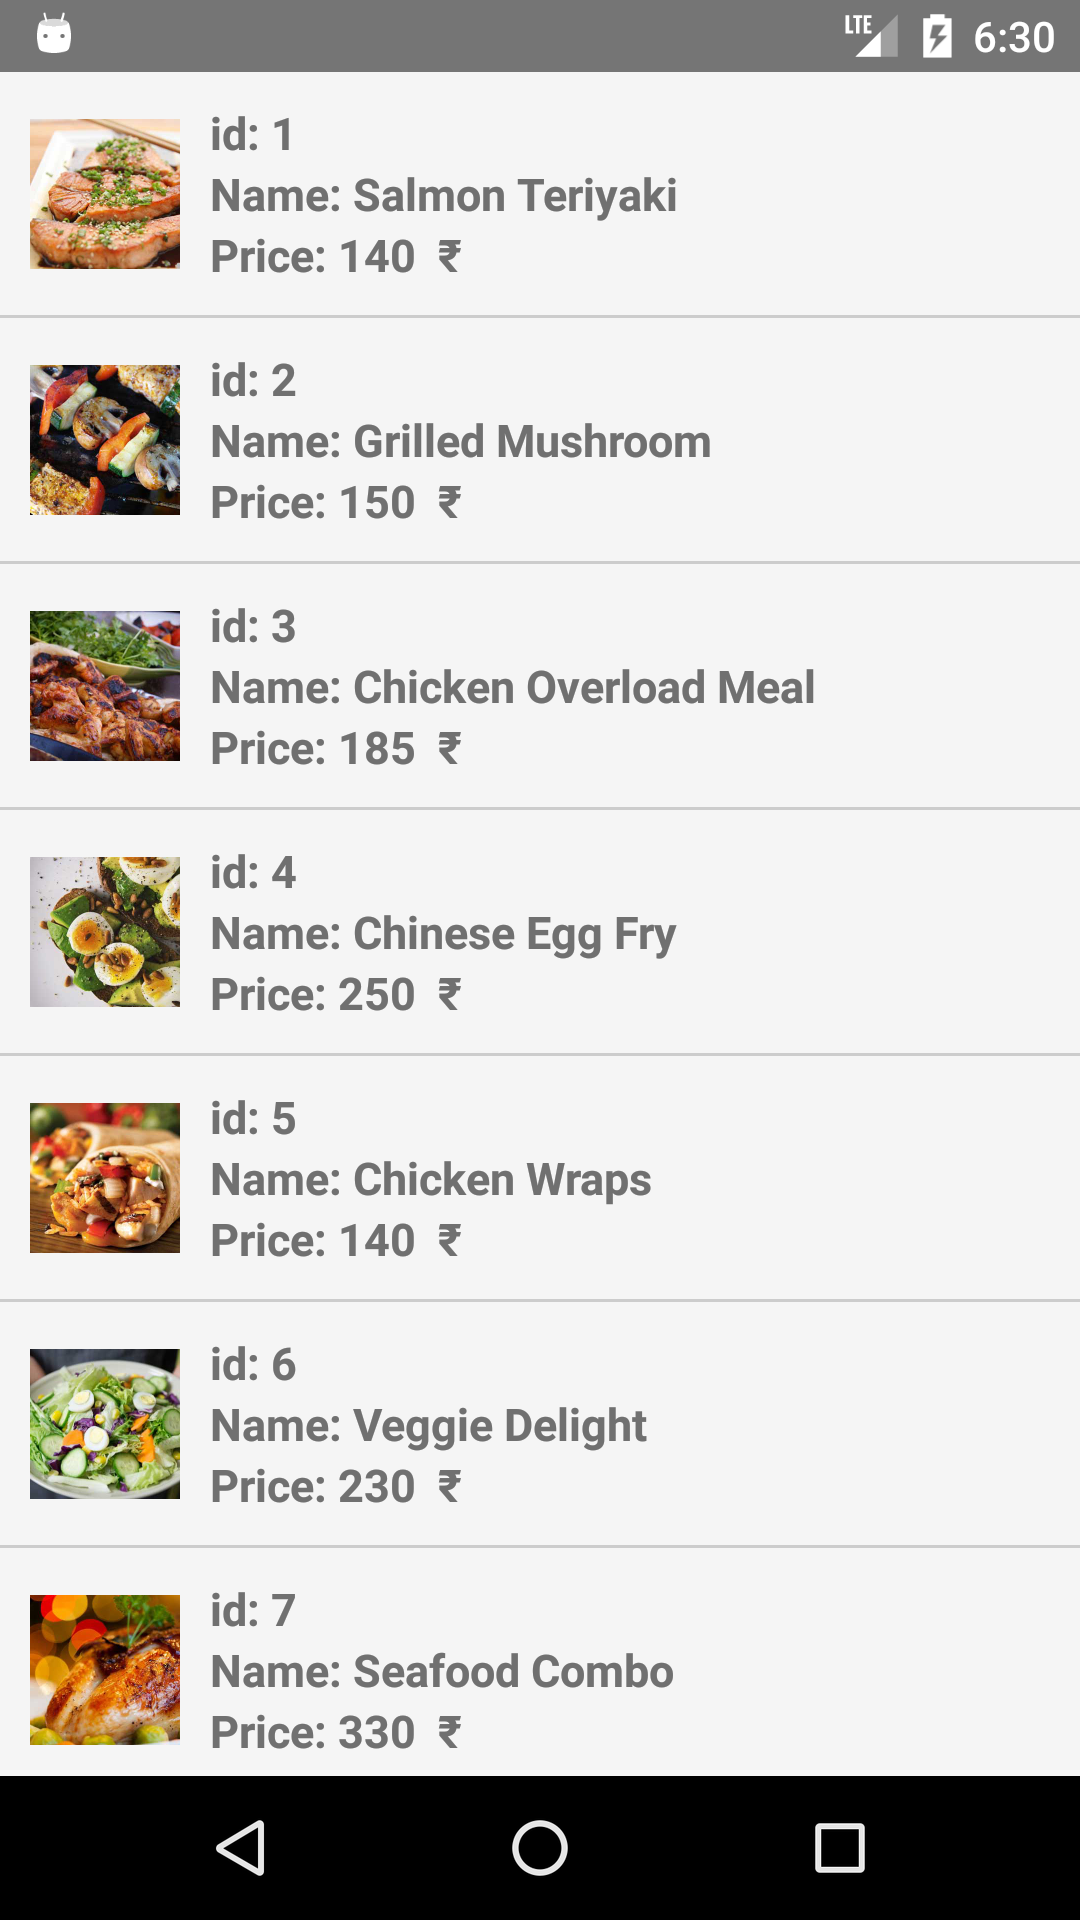
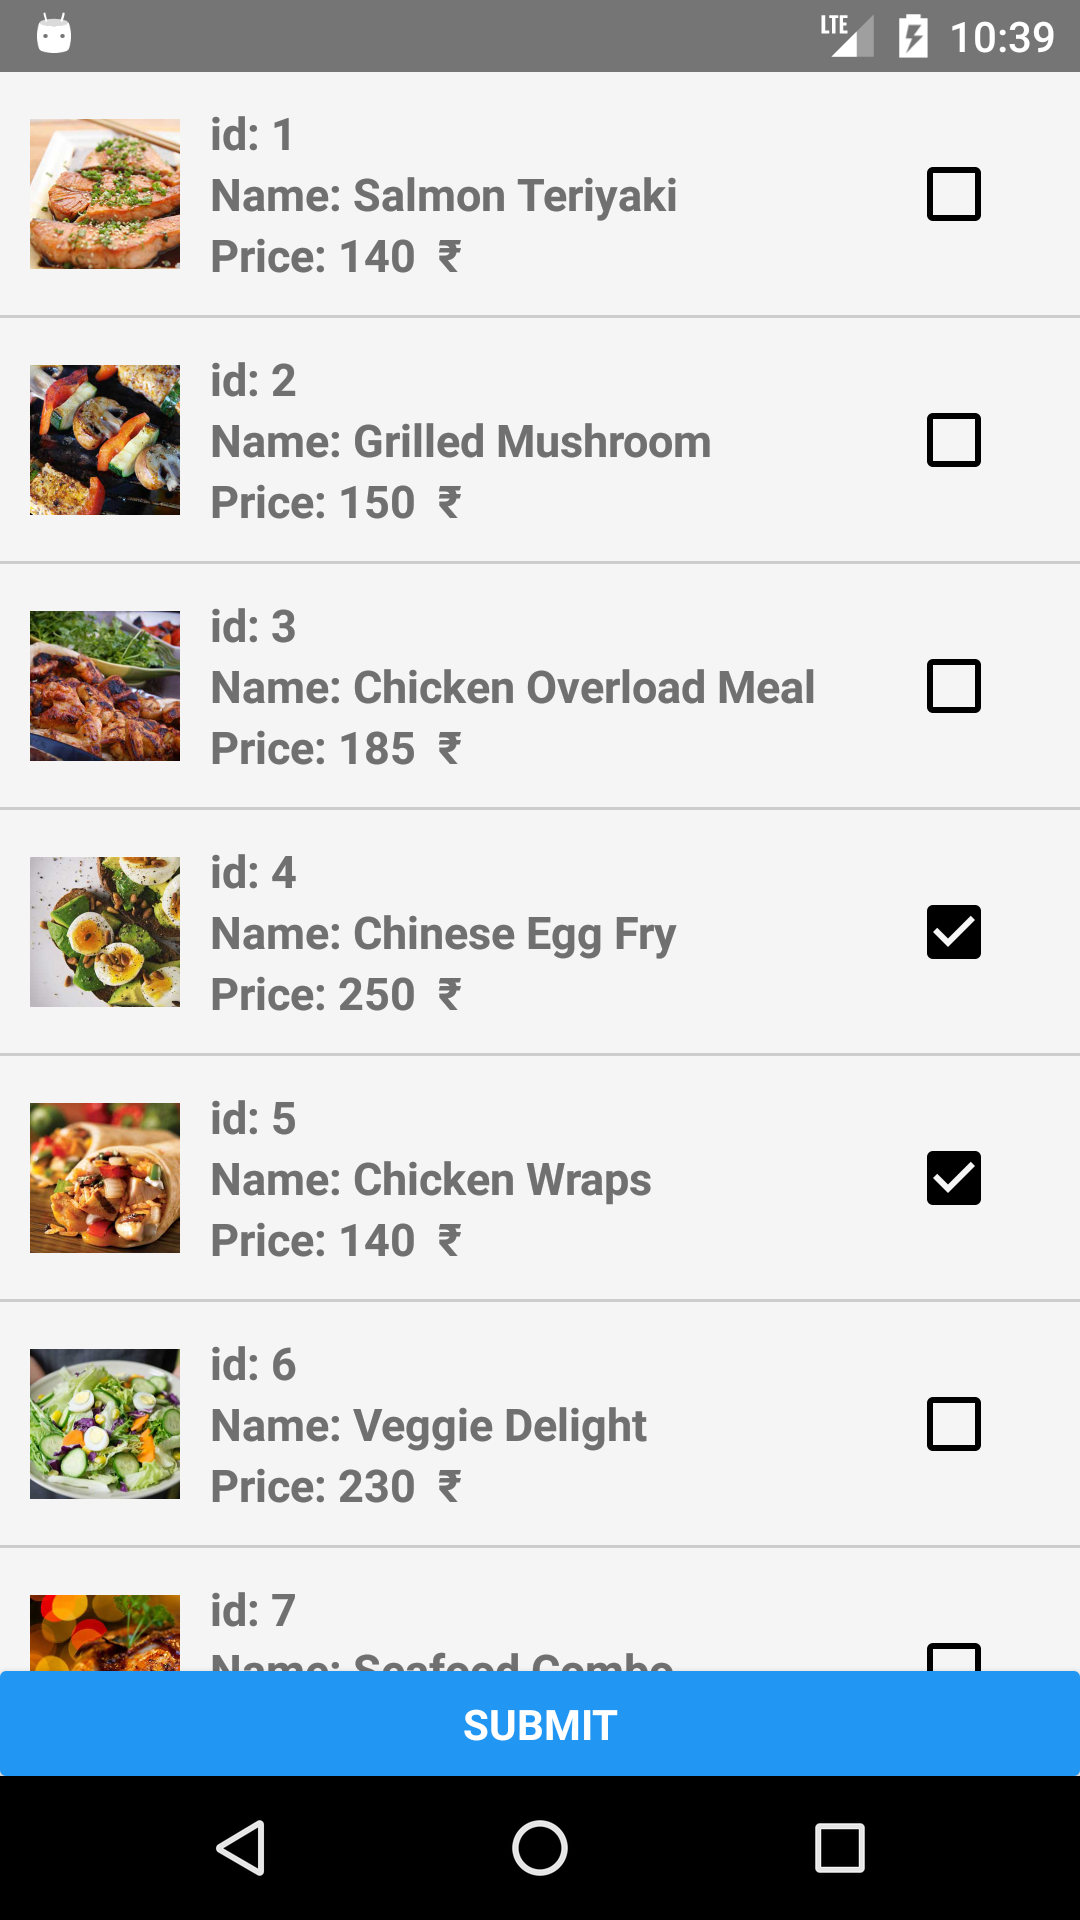
UI changes

diff --git a/app/components/home/Home.js b/app/components/home/Home.js
@@ -5,9 +5,9 @@ import {
   Text,
   ActivityIndicator,
   Image,
-  Button,
-  TouchableOpacity
+  Button
 } from "react-native";
+import CheckBox from "react-native-check-box";
 import PropTypes from "prop-types";
 import { bindActionCreators } from "redux";
 import { connect } from "react-redux";
@@ -25,44 +25,47 @@ class Home extends Component {
     getData();
   }
 
-  onRowSelect = (item, index) => {
-    console.log(item, index);
-    this.props.imageIndex(index); // set selected image position
+  checkboxClicked = (index, item) => {
+    console.log(index, item);
+    this.props.addSelectedImage(item);
   };
 
   goToNextScreen = () => {
-    this.props.selectedImages(this.props.data); // set array of selected images
+    console.log(this.props.selectedImagesArray);
     this.props.navigation.dispatch({ type: "DetailsScreen" }); // navigate to new screen
   };
 
   renderItem({ item, index }) {
     return (
-      <TouchableOpacity onPress={this.onRowSelect.bind(this, item, index)}>
-        <View style={styles.row}>
-          <Image
-            style={styles.thumbnail}
-            resizeMode={Image.resizeMode.contain}
-            source={{ uri: item.thumbnail }}
-          />
-          <View style={styles.column}>
-            <Text style={styles.title}>
-              {"id:"} {parseInt(index, 10) + 1}
-            </Text>
-            <Text style={styles.title}>
-              {"Name:"} {item.name}
-            </Text>
-            <Text style={styles.title}>
-              {"Price:"} {item.price} {" ₹"}
-            </Text>
-          </View>
+      <View style={styles.row}>
+        <Image
+          style={styles.thumbnail}
+          resizeMode={Image.resizeMode.contain}
+          source={{ uri: item.thumbnail }}
+        />
+        <View style={styles.column}>
+          <Text style={styles.title}>
+            {"id:"} {parseInt(index, 10) + 1}
+          </Text>
+          <Text style={styles.title}>
+            {"Name:"} {item.name}
+          </Text>
+          <Text style={styles.title}>
+            {"Price:"} {item.price} {" ₹"}
+          </Text>
         </View>
-      </TouchableOpacity>
+        <CheckBox
+          style={styles.checkboxStyle}
+          name={item.id}
+          onClick={this.checkboxClicked.bind(this, index, item)}
+          isChecked={false}
+        />
+      </View>
     );
   }
 
   render() {
     const { loading, data } = this.props;
-    console.log(loading, data);
     if (loading) {
       return (
         <View style={styles.activityIndicatorContainer}>

diff --git a/app/components/details/DetailsComponent.js b/app/components/details/DetailsComponent.js
@@ -1,7 +1,7 @@
 import React, { Component } from "react";
 import {
   View,
-  Text,
+  Button,
   ActivityIndicator,
   StyleSheet,
   Image,
@@ -20,9 +20,13 @@ class DetailsComponent extends Component {
       selectedImagesArray: props.selectedImagesArray,
       selectedImageIndex: props.selectedImageIndex
     };
-    console.log("props", this.state);
+    console.log("props", this.props);
   }
 
+  onBackPress() {
+    this.props.navigation.goBack();
+    this.props.selectedImages(null);
+  }
   selectPreviousImage() {
     this.setState({ selectedImageIndex: this.state.selectedImageIndex - 1 });
   }
@@ -97,15 +101,19 @@ class DetailsComponent extends Component {
       );
     }
     return (
-      <View style={styles.container}>
-        {this.renderLeftArrow()}
+      <View style={styles.rootContainer}>
+        <View style={styles.container}>
+          {this.renderLeftArrow()}
 
-        <Image
-          source={{ uri: selectedImagesArray[selectedImageIndex].thumbnail }}
-          style={styles.image}
-        />
+          <Image
+            source={{ uri: selectedImagesArray[selectedImageIndex].thumbnail }}
+            style={styles.image}
+          />
 
-        {this.renderRightArrow()}
+          {this.renderRightArrow()}
+        </View>
+
+        <Button title={"Back"} onPress={this.onBackPress.bind(this)} />
       </View>
     );
   }
@@ -130,6 +138,10 @@ function mapDispatchToProps(dispatch) {
 }
 
 const styles = StyleSheet.create({
+  rootContainer: {
+    flex: 1,
+    flexDirection: "column"
+  },
   container: {
     flex: 1,
     justifyContent: "space-evenly",

diff --git a/app/reducers/dataReducer.js b/app/reducers/dataReducer.js
@@ -1,24 +1,34 @@
 import {
   DATA_AVAILABLE,
   SELECTED_IMAGE_INDEX,
-  SELECTED_IMAGES
+  SELECTED_IMAGES,
+  ADD_IMAGE,
+  HOME_RELOAD
 } from "../actions";
 
 const INITIAL_STATE = {
   data: [],
   loading: true,
   selectedImageIndex: 0,
-  selectedImagesArray: []
+  selectedImagesArray: [],
+  homeReload: true
 };
 
 const DataReducer = (state = INITIAL_STATE, action) => {
   switch (action.type) {
     case DATA_AVAILABLE:
       return { ...state, data: action.data, loading: false };
+    case ADD_IMAGE:
+      return {
+        ...state,
+        selectedImagesArray: [...state.selectedImagesArray, action.data]
+      };
     case SELECTED_IMAGE_INDEX:
       return { ...state, selectedImageIndex: action.data };
     case SELECTED_IMAGES:
       return { ...state, selectedImagesArray: action.data };
+    case HOME_RELOAD:
+      return { ...state, homeReload: action.data };
     default:
       return state;
   }

diff --git a/app/actions/index.js b/app/actions/index.js
@@ -3,6 +3,7 @@ import data from "../../app/assets/data.json";
 export const DATA_AVAILABLE = "DATA_AVAILABLE";
 export const SELECTED_IMAGE_INDEX = "SELECTED_IMAGE_INDEX";
 export const SELECTED_IMAGES = "SELECTED_IMAGES";
+export const ADD_IMAGE = "ADD_IMAGE";
 
 export function getData() {
   return dispatch => {
@@ -13,6 +14,12 @@ export function getData() {
 export function imageIndex(index) {
   return dispatch => {
     dispatch({ type: SELECTED_IMAGE_INDEX, data: index });
+  };
+}
+
+export function addSelectedImage(item) {
+  return dispatch => {
+    dispatch({ type: ADD_IMAGE, data: item });
   };
 }
 

diff --git a/app/screens/DetailsScreen.js b/app/screens/DetailsScreen.js
@@ -2,16 +2,16 @@ import React from "react";
 import { View, StyleSheet, Text } from "react-native";
 import DetailsComponent from "../components/details/DetailsComponent";
 
-const DetailsScreen = ({ navigation, props }) => (
+const DetailsScreen = ({ navigation }) => (
   <View style={styles.container}>
-    <DetailsComponent navigation={navigation}/>
+    <DetailsComponent navigation={navigation} />
   </View>
 );
 
 DetailsScreen.propTypes = {};
 
 DetailsScreen.navigationOptions = {
-  title: "Details"
+  header: null
 };
 
 const styles = StyleSheet.create({

diff --git a/app/components/home/HomeStyles.js b/app/components/home/HomeStyles.js
@@ -25,6 +25,13 @@ const styles = StyleSheet.create({
     height: 50,
     marginRight: 10,
     alignSelf: "center"
+  },
+
+  checkboxStyle: {
+    flex: 1,
+    alignItems: "flex-end",
+    alignSelf: "center",
+    marginRight: 20
   }
 });
 
